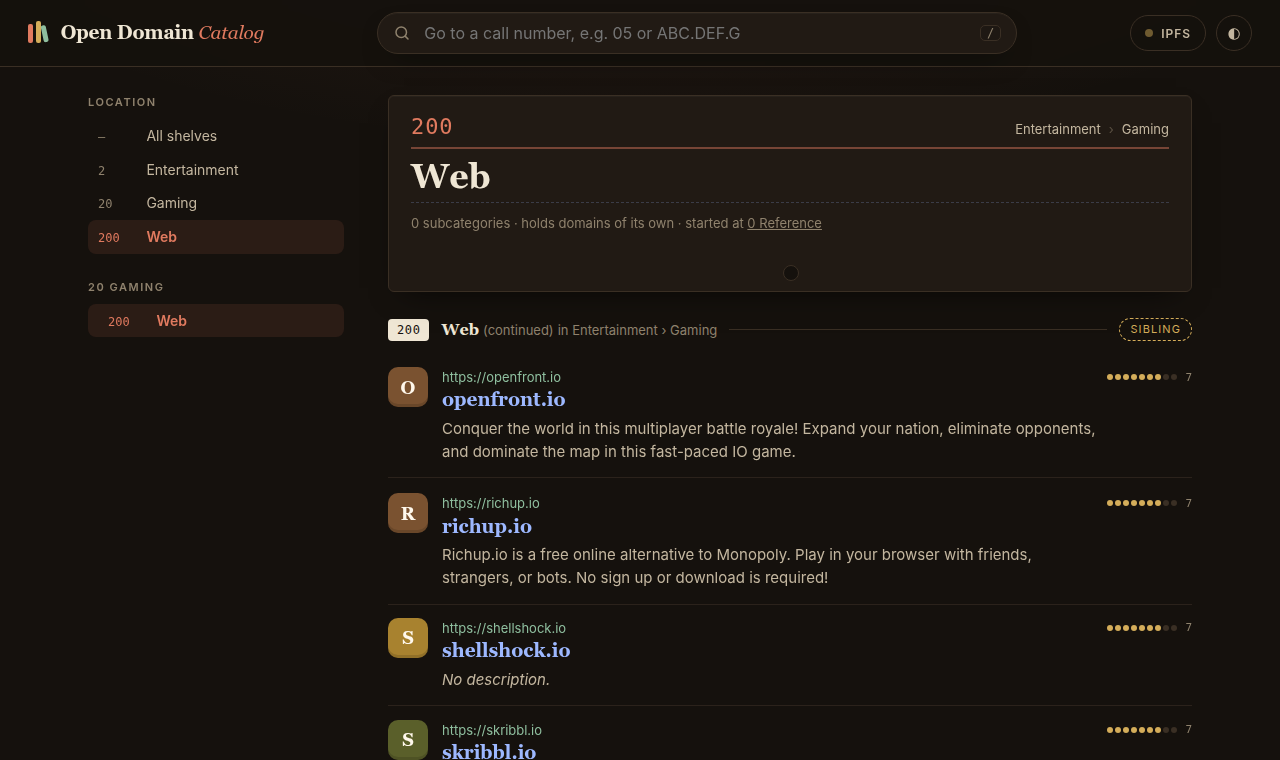
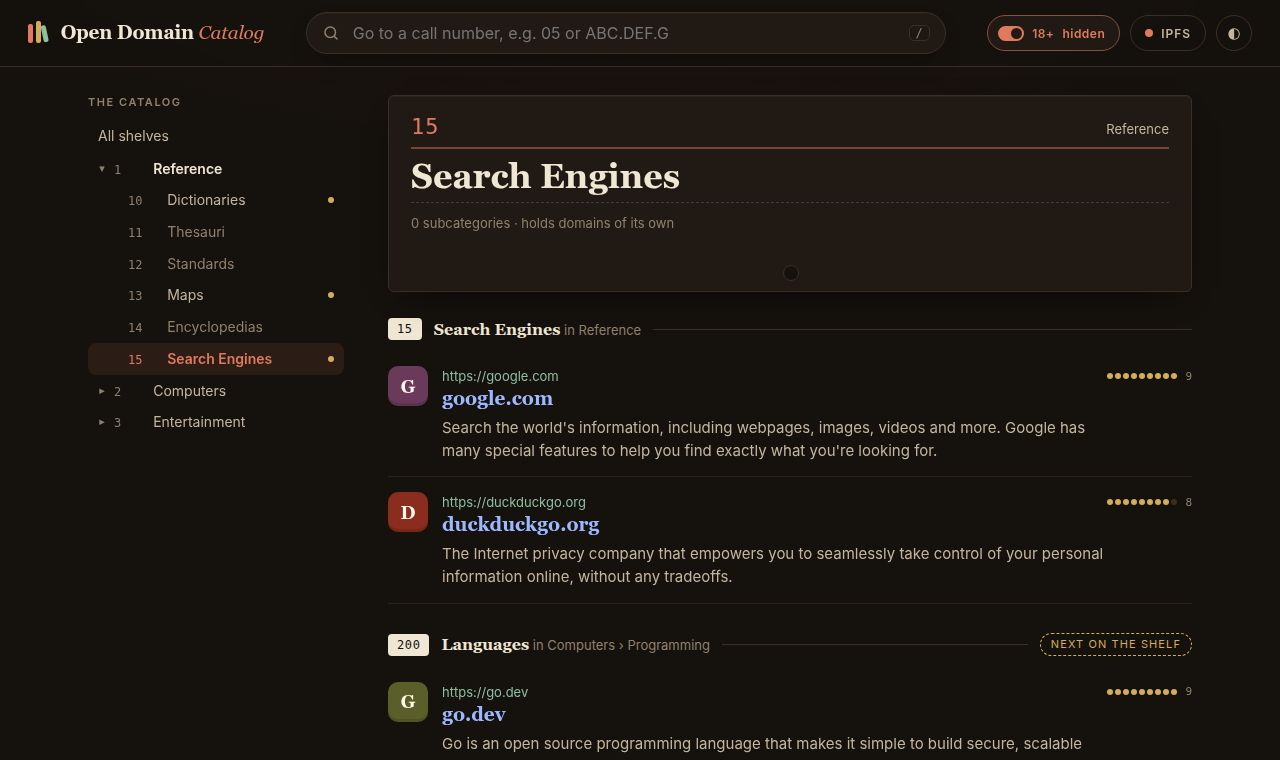
Make the sidebar a tree of the whole catalog
- The sidebar now shows the whole catalog as an expandable tree. The path
  to the current category opens automatically and the category is
  highlighted.
- The highlight follows the category being scrolled through, and the
  sidebar scrolls to keep it in view without moving the page.
- Branches opened automatically close again once the reader moves on;
  branches the reader opens stay open until closed.
- A dot marks categories with domains of their own; empty shelves are
  dimmed.
- The skipped-blocks notice now covers blocks that couldn't be read as
  well as ones that failed validation.
- README text and browse screenshots updated to match.

diff --git a/odc_explorer/static/app.js b/odc_explorer/static/app.js
@@ -71,6 +71,7 @@
     const { parts, q } = parseHash();
     window.scrollTo({ top: 0 });
     stopIpfsRefresh();
+    stopScrollSpy();
     if (parts[0] === "ipfs") return renderIpfs(stale);
     if (parts[0] === "c") {
       const call = parts[1] && parts[1] !== "-" ? parts[1] : "";
@@ -108,6 +109,8 @@
     const t = e.target;
     if (t.closest("#theme")) return toggleTheme();
     if (t.closest("[data-adult-toggle]")) return toggleAdult();
+    const twisty = t.closest("[data-twisty]");
+    if (twisty) return toggleBranch(twisty.dataset.twisty);
     const donate = t.closest("[data-donate]");
     if (donate) return answerDonate(donate.dataset.donate);
     const copy = t.closest("[data-copy]");
@@ -249,31 +252,111 @@
     return catCache.get(key);
   }
 
-  // Sidebar: the breadcrumb to the current category, then the shelf it sits on
-  // (its siblings, with it highlighted and its own subcategories nested).
-  // ``parent`` is null at "All shelves".
-  function rail(cur, parent) {
-    const link = (c, cls = "") => `<li><a class="${cls}" href="${shelfHref(c.call)}"><span class="c">${esc(c.call)}</span>${esc(c.desc || "Untitled")}</a></li>`;
-    const crumbs = cur.breadcrumbs;
-    const loc = `<li><a href="${browseHref("")}" class="${crumbs.length ? "" : "here"}"><span class="c">—</span>All shelves</a></li>` +
-      crumbs.map((c, i) => link(c, i === crumbs.length - 1 ? "here" : "")).join("");
-    const shelf = parent ? parent.children : cur.children;
-    const title = parent?.call ? `${esc(parent.call)} ${esc(parent.desc || "Untitled")}` : "Top shelves";
-    const items = shelf.map((c) => (parent && c.call === cur.call)
-      ? link(c, "depth-1 here") + cur.children.map((k) => link(k, "depth-2")).join("")
-      : link(c, "depth-1")).join("");
-    return `<h4>Location</h4><ul class="tree">${loc}</ul>
-      <h4>${title}</h4><ul class="tree">${items || `<li><span class="tree muted">No categories here.</span></li>`}</ul>
-      <div class="rail-links" id="rail-links">${railLinks()}</div>`;
+  // Sidebar: a tree of the whole catalog. The path to the highlighted category
+  // opens automatically and closes again once the highlight moves on. Branches
+  // the reader opens with ▸ stay open until the reader closes them; a path
+  // branch the reader closes stays closed until the highlight moves. Children
+  // load on demand through the cached getCategory(). Categories with domains of
+  // their own get a dot; empty ones are dimmed.
+  const userOpen = new Set();     // opened by the reader
+  const userClosed = new Set();   // path branches the reader closed (reset when the highlight moves)
+  let railCurrent = "";
+  const onPath = (b) => b !== "" && railCurrent.startsWith(b);
+  const isOpen = (b) => (userOpen.has(b) || onPath(b)) && !userClosed.has(b);
+  function setRailCurrent(b) {
+    if (b !== railCurrent) userClosed.clear();
+    railCurrent = b;
+  }
+
+  function treeNode(c, kids, depth) {
+    const b = bare(c.call), open = isOpen(b);
+    const onPath = railCurrent.startsWith(b), here = railCurrent === b;
+    const twisty = c.has_children
+      ? `<button type="button" class="twisty" data-twisty="${esc(b)}" aria-expanded="${open}"
+           aria-label="${open ? "Close" : "Open"} ${esc(c.desc || c.call)}">${open ? "▾" : "▸"}</button>`
+      : `<span class="twisty" aria-hidden="true"></span>`;
+    const cls = [here && "here", onPath && !here && "on-path", !c.has_domains && !c.has_children && "is-empty"].filter(Boolean).join(" ");
+    const sub = open && kids.has(b) ? treeList(kids.get(b), kids, depth + 1) : "";
+    return `<li style="--depth:${depth}">${twisty}<a class="${cls}" href="${shelfHref(c.call)}"${here ? ' aria-current="page"' : ""}>
+        <span class="c">${esc(c.call)}</span><span class="name">${esc(c.desc || "Untitled")}</span>${c.has_domains ? `<i class="has-domains" title="Has domains of its own"></i>` : ""}</a>${sub}</li>`;
+  }
+  const treeList = (children, kids, depth) =>
+    `<ul class="ctree">${children.map((c) => treeNode(c, kids, depth)).join("")}</ul>`;
+
+  // ``reveal``: scroll the sidebar (only the sidebar, never the page) so the
+  // highlighted category is in view. Not done when the reader opens or closes
+  // a branch, so the tree doesn't jump under the pointer.
+  async function drawTree(stale = () => false, reveal = false) {
+    const path = [...railCurrent].map((_, i) => railCurrent.slice(0, i + 1));
+    const branches = ["", ...new Set([...path, ...userOpen])].filter((b) => b === "" || isOpen(b));
+    const results = await Promise.allSettled(branches.map((b) => getCategory(b)));
+    if (stale() || !$("#rail-tree")) return;
+    const kids = new Map();
+    results.forEach((r, i) => { if (r.status === "fulfilled") kids.set(branches[i], r.value.children); });
+    const top = kids.get("") || [];
+    $("#rail-tree").innerHTML = `<a class="tree-root${railCurrent ? "" : " here"}" href="${browseHref("")}">All shelves</a>` +
+      (top.length ? treeList(top, kids, 0) : `<p class="tree muted">No categories here.</p>`);
+    if (reveal) revealHere();
+  }
+
+  function revealHere() {
+    const rail = $("#rail"), here = $("#rail-tree .here");
+    if (!rail || !here || rail.scrollHeight <= rail.clientHeight) return;   // sidebar doesn't scroll
+    const box = rail.getBoundingClientRect(), item = here.getBoundingClientRect();
+    const margin = Math.min(80, box.height / 4);
+    let delta = 0;
+    if (item.top < box.top + margin) delta = item.top - (box.top + margin);
+    else if (item.bottom > box.bottom - margin) delta = item.bottom - (box.bottom - margin);
+    if (delta) rail.scrollBy({ top: delta, behavior: "smooth" });
+  }
+
+  async function toggleBranch(b) {
+    if (isOpen(b)) {
+      userOpen.delete(b);
+      if (onPath(b)) userClosed.add(b);
+    } else {
+      userOpen.add(b);
+      userClosed.delete(b);
+    }
+    await drawTree();
+    $(`[data-twisty="${CSS.escape(b)}"]`)?.focus();
   }
 
   async function drawRail(b, stale) {
-    try {
-      const [cur, parent] = await Promise.all([getCategory(b), b ? getCategory(b.slice(0, -1)) : null]);
-      if (stale() || !$("#rail")) return null;
-      $("#rail").innerHTML = rail(cur, parent);
-      return cur;
-    } catch { return null; }
+    setRailCurrent(b);
+    if (!$("#rail")) return null;
+    $("#rail").innerHTML = `<h4>The catalog</h4><nav id="rail-tree" aria-label="Catalog"></nav>
+      <div class="rail-links" id="rail-links">${railLinks()}</div>`;
+    const [cur] = await Promise.all([getCategory(b).catch(() => null), drawTree(stale, true)]);
+    return stale() ? null : cur;
+  }
+
+  // While you scroll the results, the tree highlights the category whose
+  // section you're in: the last category header scrolled past (below the top
+  // bar), or the first one at the top of the page. Its branch opens if needed.
+  let scrollSpy = null;
+  function stopScrollSpy() {
+    if (scrollSpy) window.removeEventListener("scroll", scrollSpy);
+    scrollSpy = null;
+  }
+  function startScrollSpy(stale) {
+    stopScrollSpy();
+    let waiting = false;
+    const check = () => {
+      waiting = false;
+      if (stale()) return stopScrollSpy();
+      const marks = $$(".shelf-mark[data-call]");
+      if (!marks.length) return;
+      const line = topbar.offsetHeight + 24;
+      let pick = marks[0];
+      for (const m of marks) { if (m.getBoundingClientRect().top <= line) pick = m; else break; }
+      const b = pick.dataset.call;
+      if (b === railCurrent) return;
+      setRailCurrent(b);
+      drawTree(stale, true);
+    };
+    scrollSpy = () => { if (!waiting) { waiting = true; setTimeout(check, 80); } };   // at most every 80 ms
+    window.addEventListener("scroll", scrollSpy, { passive: true });
   }
 
   // Header card for the subject the page is on (the same category as the
@@ -325,6 +408,7 @@
     if (stale()) return;
     $("#head").innerHTML = headCard(cur, start);
     document.title = `${cur.call ? `${cur.call} ${cur.desc || ""}` : "All shelves"} · Open Domain Catalog`;
+    startScrollSpy(stale);
 
     function shelfTag(b) {
       if (!fromB || b === fromB) return "";
@@ -335,7 +419,7 @@
 
     function drawFlow(f) {
       let html = f.warnings?.length
-        ? `<div class="notice"><strong>Skipped malformed blocks:</strong> ${f.warnings.map(esc).join("; ")}</div>` : "";
+        ? `<div class="notice"><strong>Skipped blocks that couldn't be read or failed validation:</strong> ${f.warnings.map(esc).join("; ")}</div>` : "";
       if (!f.items.length) {
         html += `<div class="empty"><h3>End of the catalog</h3>
           ${offset || pageNo > 1 ? "There are no more domains after this point in the catalog."

diff --git a/odc_explorer/static/app.css b/odc_explorer/static/app.css
@@ -292,6 +292,27 @@ button { font: inherit; color: inherit; }
   .adult-toggle, .ipfs-link { padding: 0 10px; }
 }
 
+/* ---- sidebar: catalog tree ---- */
+#rail-tree { margin: 0 0 26px; font-size: 14px; }
+.tree-root { display: block; padding: 6px 10px; border-radius: 8px; text-decoration: none; color: var(--ink-2); }
+.tree-root:hover { background: var(--paper-2); color: var(--ink); }
+.tree-root.here { background: var(--accent-soft); color: var(--accent); font-weight: 600; }
+.ctree { list-style: none; margin: 0; padding: 0; }
+.ctree li { position: relative; }
+.ctree li > a { display: flex; align-items: baseline; gap: 8px; padding: 5px 10px 5px calc(26px + var(--depth) * 14px);
+  border-radius: 8px; text-decoration: none; color: var(--ink-2); }
+.ctree li > a:hover { background: var(--paper-2); color: var(--ink); }
+.ctree a .c { font: 12px var(--mono); color: var(--ink-3); min-width: 2.6em; }
+.ctree a .name { flex: 1; min-width: 0; overflow-wrap: anywhere; }
+.ctree a.on-path { color: var(--ink); font-weight: 600; }
+.ctree a.here { background: var(--accent-soft); color: var(--accent); font-weight: 600; }
+.ctree a.here .c { color: var(--accent); }
+.ctree a.is-empty { color: var(--ink-3); }
+.ctree .has-domains { width: 6px; height: 6px; border-radius: 50%; background: var(--brass); flex: none; align-self: center; }
+.ctree .twisty { position: absolute; left: calc(4px + var(--depth) * 14px); top: 4px; width: 20px; height: 22px; padding: 0;
+  border: none; background: none; color: var(--ink-3); font-size: 11px; line-height: 22px; text-align: center; cursor: pointer; border-radius: 5px; }
+.ctree button.twisty:hover { color: var(--ink); background: var(--paper-2); }
+
 /* ---- project links: plain, quiet text at the bottom of the sidebar ---- */
 .rail-links { display: flex; flex-direction: column; align-items: flex-start; gap: 4px; padding: 0 10px; }
 .rail-links a { font-size: 12px; color: color-mix(in srgb, var(--accent) 65%, var(--ink-3)); text-decoration: none; }

diff --git a/README.md b/README.md
@@ -34,8 +34,8 @@ server.
 
 - 📚 **Browse like a library.** Start at any category and read 25 domains at a time.
   Pages dive into its subcategories, then move on to the next sibling categories,
-  all the way to the end of the catalog. The header and sidebar follow along,
-  showing the subject you're on and the shelf it sits on.
+  all the way to the end of the catalog. The header follows the subject you're
+  on, and the sidebar is a tree of the whole catalog that opens to where you are.
 - 🔞 **Adult content hidden by default.** Call number `0` and everything under it
   stay hidden until you flip the 18+ switch, which your browser remembers.
 - 🔢 **Jump to any call number.** Type `05`, `ABC.DEF.G` or `abcdefg` to go
@@ -56,8 +56,8 @@ server.
 - 🐧 **Installs per user on Linux** with an app-menu launcher, no `sudo` required.
 
 <p align="center">
-  <img src="docs/screenshots/browse.png" alt="Browsing from Reference: the header and sidebar show Dictionaries on the Reference shelf, with ranked domains below" width="49%">
-  <img src="docs/screenshots/browse-dark.png" alt="A later page in the dark theme: the header and sidebar have moved on to Entertainment › Gaming › Web" width="49%">
+  <img src="docs/screenshots/browse.png" alt="Browsing Dictionaries: the sidebar's catalog tree is open at Reference with Dictionaries highlighted, and ranked domains fill the page" width="49%">
+  <img src="docs/screenshots/browse-dark.png" alt="Search Engines in the dark theme: the catalog tree is open at Reference, and the page runs on into the next shelf, Languages" width="49%">
 </p>
 
 ## Getting started
@@ -188,12 +188,18 @@ from the latest published version of the catalog. Pages never change on their
 own: to see a newly published version, navigate, reload, or click the link to the
 page you're on. The last page is marked **End of the catalog**.
 
-The **header** and the **sidebar** follow the subject of each page: the category
-its first domain belongs to. The sidebar shows where that is (*Location*) and the
-shelf it sits on, meaning the categories alongside it, with the current one
-highlighted and its own subcategories nested underneath. When **Next 25** carries
-you into a new subject, both change with it. The header also links back to where
-you started reading.
+The **header** follows the subject of each page: the category its first domain
+belongs to. When **Next 25** carries you into a new subject, it changes with it,
+and it links back to where you started reading.
+
+The **sidebar** is a tree of the whole catalog. The branches leading to the
+page's subject open automatically, with that category highlighted. As you scroll
+through the results, the highlight follows the category you're reading, opening
+its branch if needed and scrolling the sidebar to keep it in view. Branches it
+opened for you close again once you've moved on. **▸** next to any category opens
+or closes its branch without leaving the page, and branches you open yourself
+stay open until you close them. A dot marks categories with domains of their
+own; empty shelves are dimmed.
 
 Keyboard: <kbd>/</kbd> focuses the call-number box, and <kbd>←</kbd> /
 <kbd>→</kbd> go to the previous or next page.
